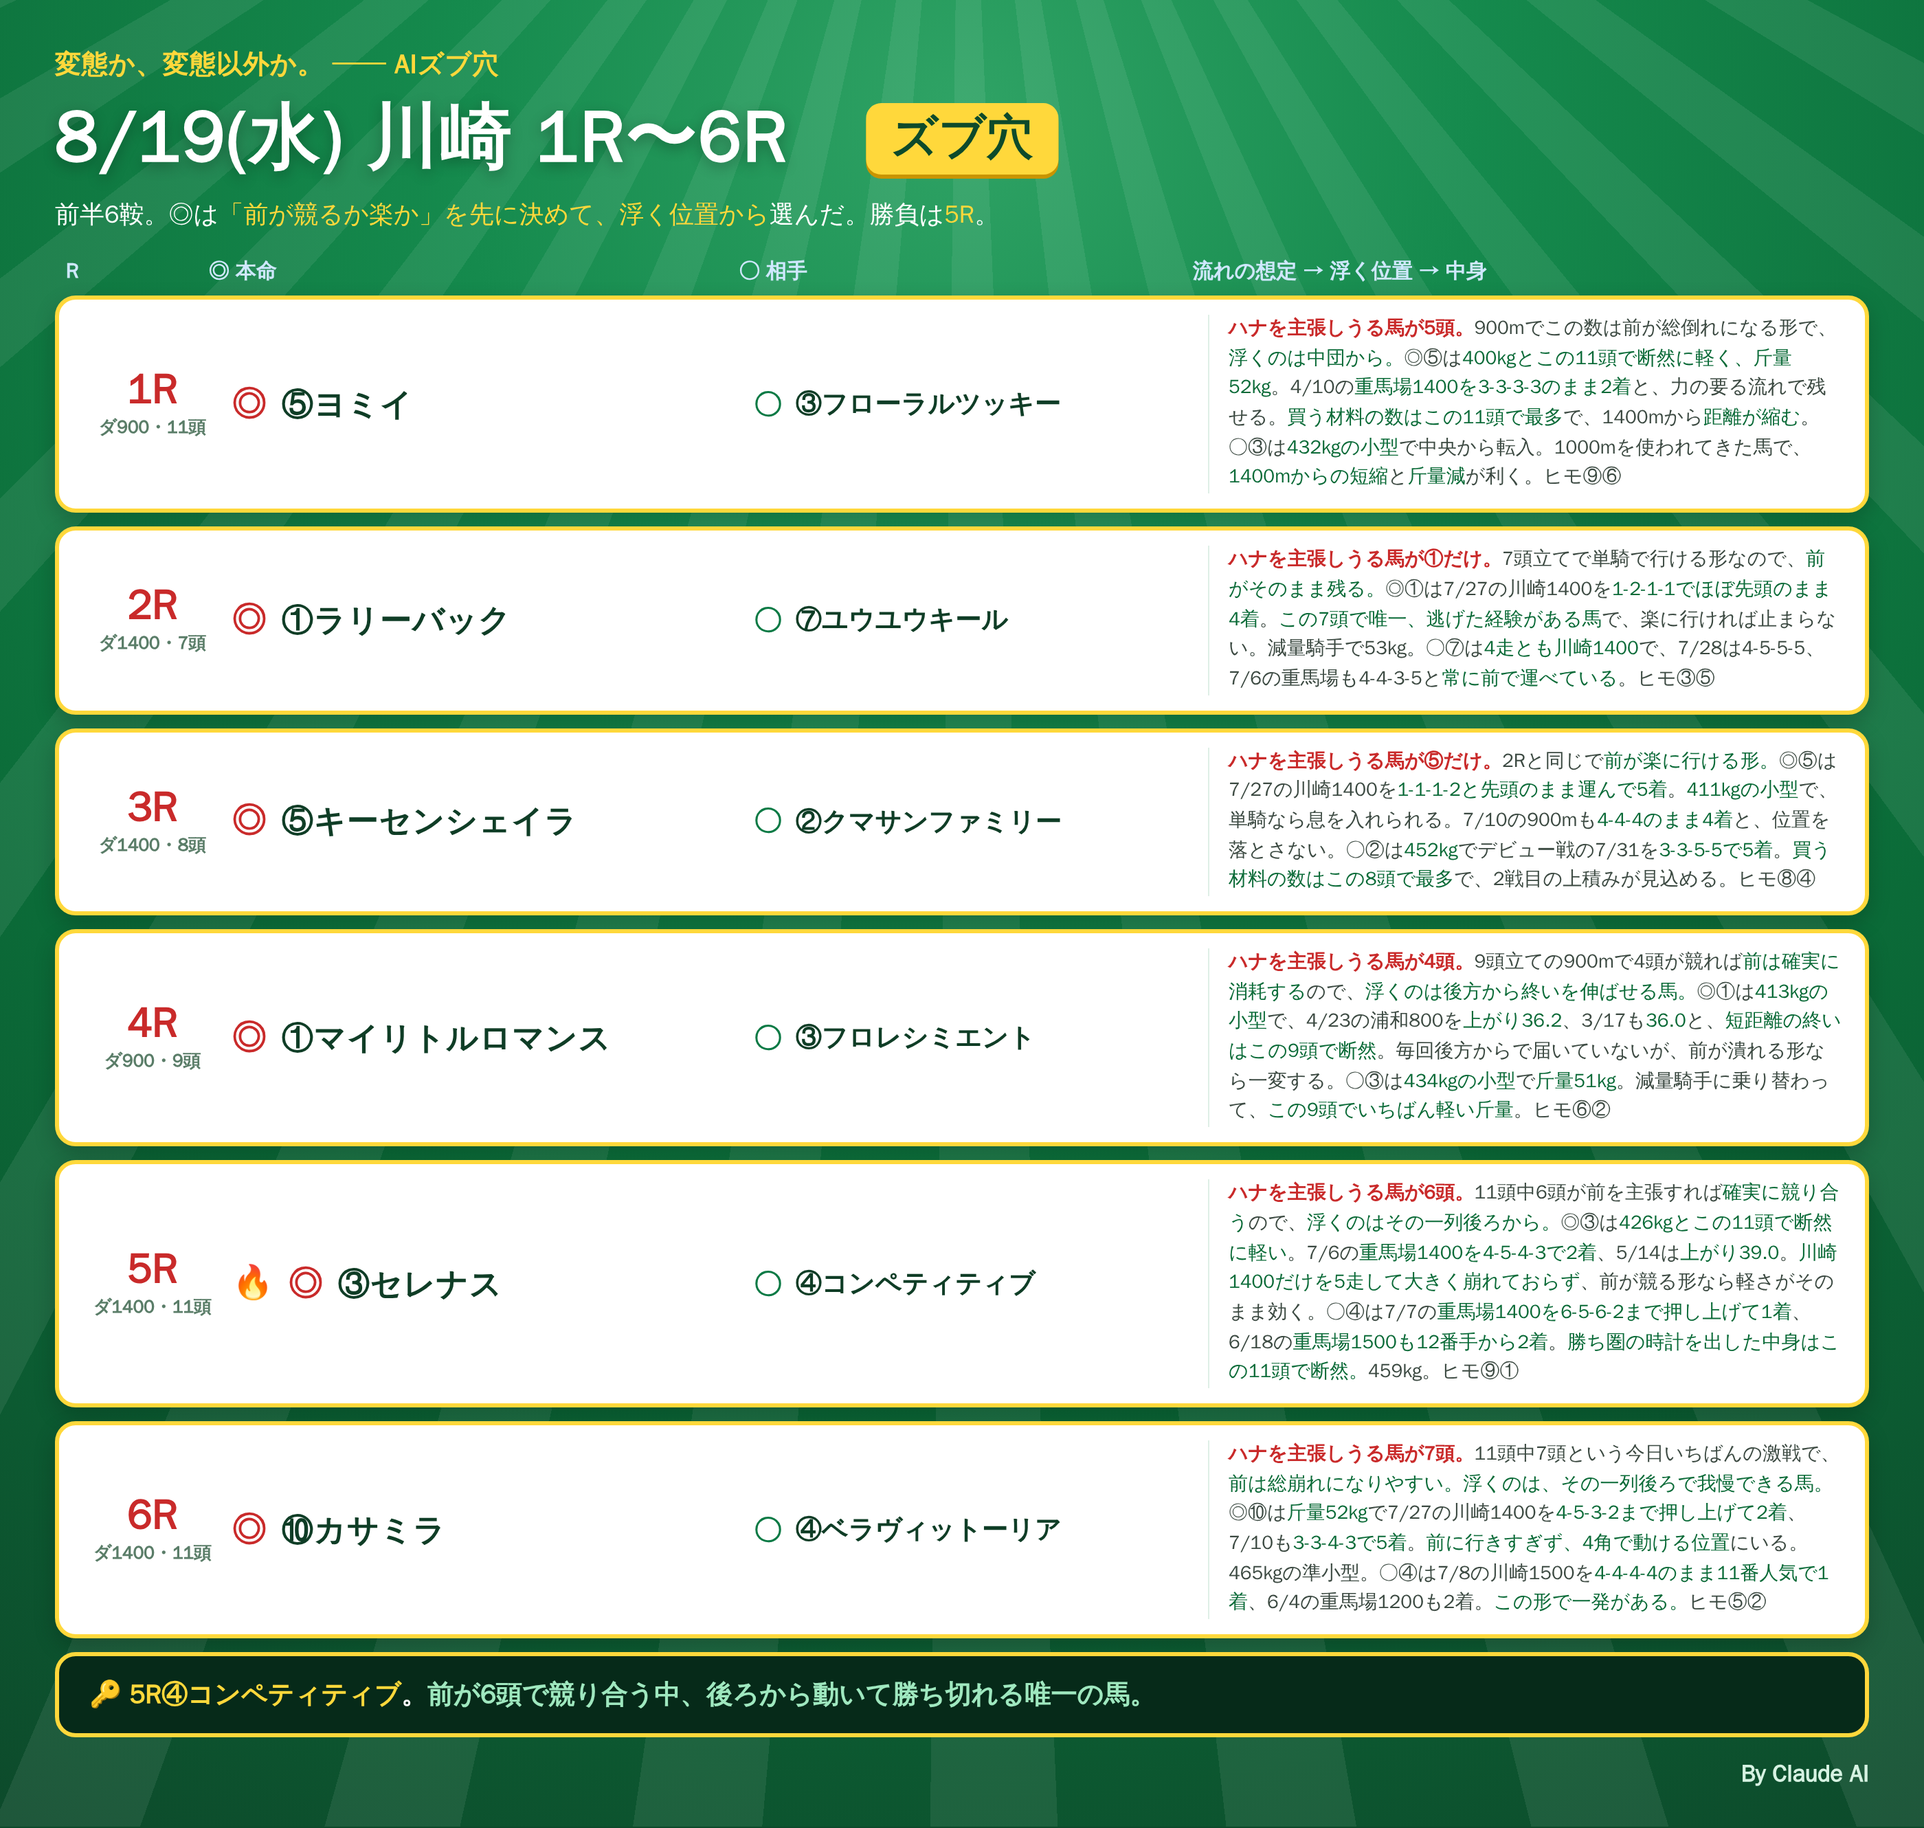
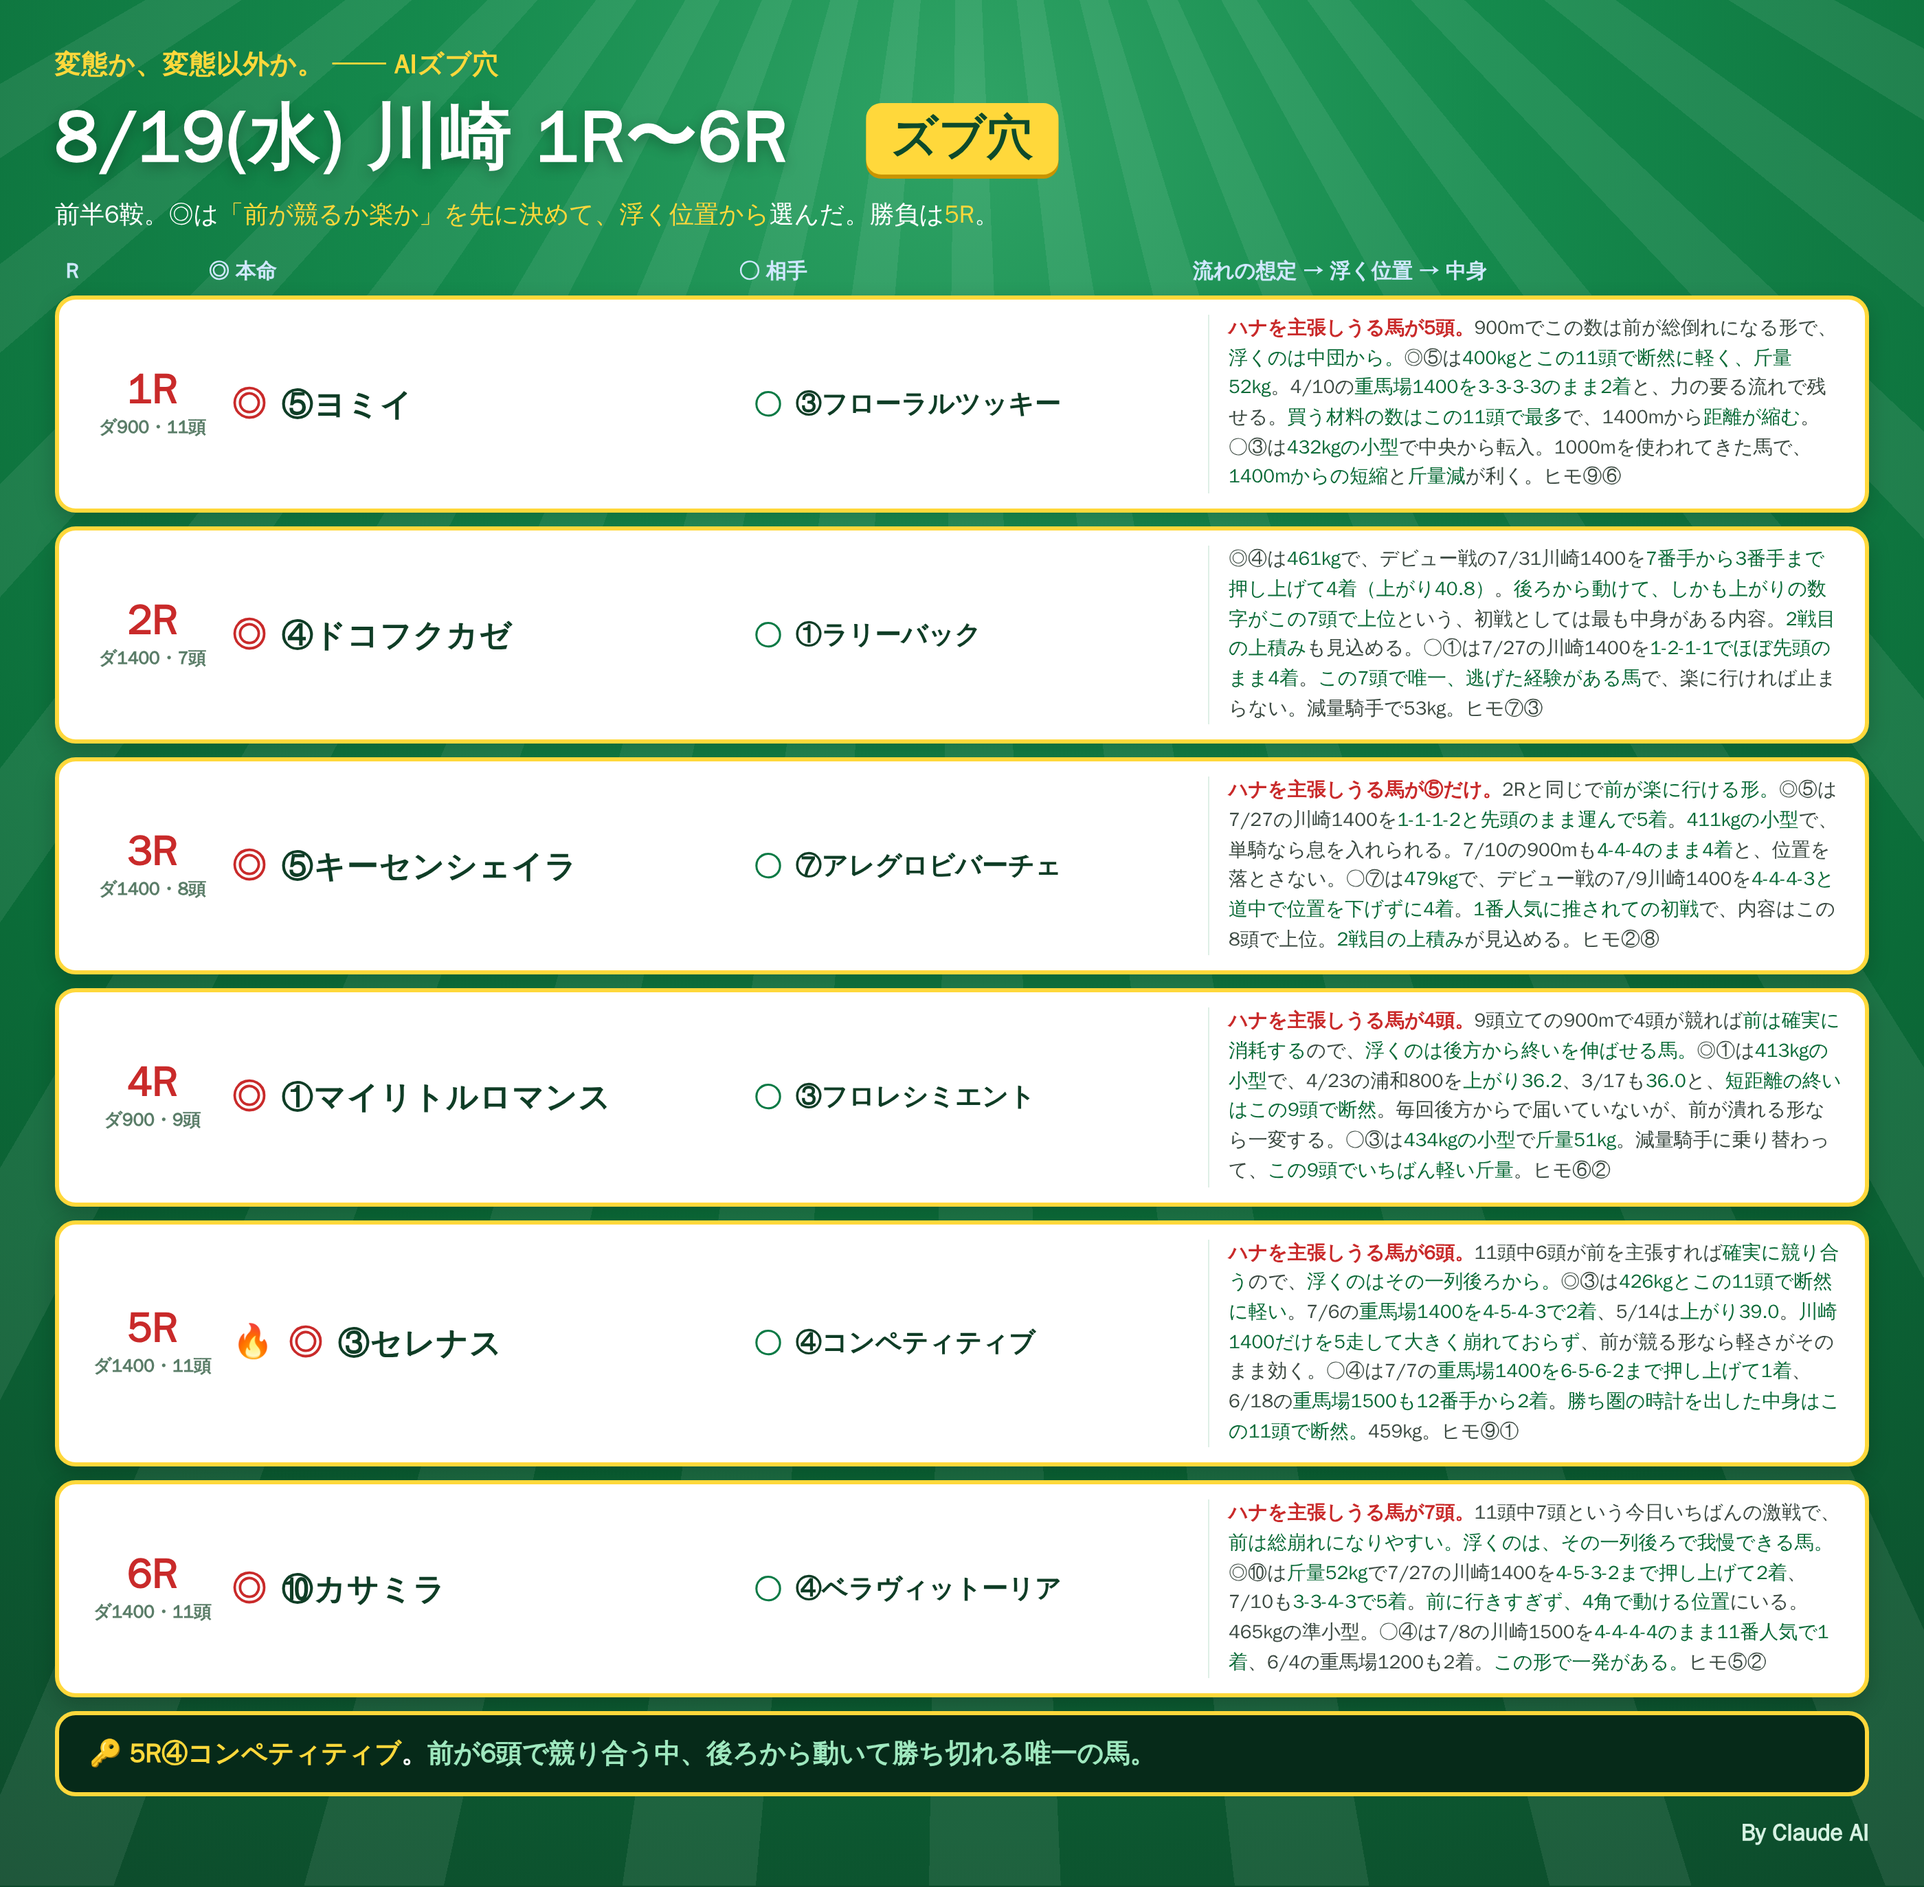
notes: 8/19 川崎 2R ◎④○① / 3R ○⑦ に変更（両方式）
Claude-Session: https://claude.ai/code/session_01RoHscZkr96FNaxQWvUqgEw

diff --git a/notes/live/2026-08-19/kawasaki_1_6.html b/notes/live/2026-08-19/kawasaki_1_6.html
@@ -60,16 +60,16 @@
 
   <div class="row">
     <div class="rN"><div class="n">2R</div><div class="d">ダ1400・7頭</div></div>
-    <div class="hm"><span class="mk">◎</span><span class="nm">①ラリーバック</span></div>
-    <div class="at"><span class="mk2">○</span><span class="nm2">⑦ユウユウキール</span></div>
-    <div class="memo"><b class='r'>ハナを主張しうる馬が①だけ。</b>7頭立てで単騎で行ける形なので、<b>前がそのまま残る。</b>◎①は7/27の川崎1400を<b>1-2-1-1でほぼ先頭のまま4着</b>。<b>この7頭で唯一、逃げた経験がある馬</b>で、楽に行ければ止まらない。減量騎手で53kg。○⑦は<b>4走とも川崎1400</b>で、7/28は4-5-5-5、7/6の重馬場も4-4-3-5と<b>常に前で運べている</b>。ヒモ③⑤</div>
+    <div class="hm"><span class="mk">◎</span><span class="nm">④ドコフクカゼ</span></div>
+    <div class="at"><span class="mk2">○</span><span class="nm2">①ラリーバック</span></div>
+    <div class="memo">◎④は<b>461kg</b>で、デビュー戦の7/31川崎1400を<b>7番手から3番手まで押し上げて4着（上がり40.8）</b>。<b>後ろから動けて、しかも上がりの数字がこの7頭で上位</b>という、初戦としては最も中身がある内容。<b>2戦目の上積み</b>も見込める。○①は7/27の川崎1400を<b>1-2-1-1でほぼ先頭のまま4着</b>。<b>この7頭で唯一、逃げた経験がある馬</b>で、楽に行ければ止まらない。減量騎手で53kg。ヒモ⑦③</div>
   </div>
 
   <div class="row">
     <div class="rN"><div class="n">3R</div><div class="d">ダ1400・8頭</div></div>
     <div class="hm"><span class="mk">◎</span><span class="nm">⑤キーセンシェイラ</span></div>
-    <div class="at"><span class="mk2">○</span><span class="nm2">②クマサンファミリー</span></div>
-    <div class="memo"><b class='r'>ハナを主張しうる馬が⑤だけ。</b>2Rと同じで<b>前が楽に行ける形。</b>◎⑤は7/27の川崎1400を<b>1-1-1-2と先頭のまま運んで5着</b>。<b>411kgの小型</b>で、単騎なら息を入れられる。7/10の900mも<b>4-4-4のまま4着</b>と、位置を落とさない。○②は<b>452kg</b>でデビュー戦の7/31を<b>3-3-5-5で5着</b>。<b>買う材料の数はこの8頭で最多</b>で、2戦目の上積みが見込める。ヒモ⑧④</div>
+    <div class="at"><span class="mk2">○</span><span class="nm2">⑦アレグロビバーチェ</span></div>
+    <div class="memo"><b class='r'>ハナを主張しうる馬が⑤だけ。</b>2Rと同じで<b>前が楽に行ける形。</b>◎⑤は7/27の川崎1400を<b>1-1-1-2と先頭のまま運んで5着</b>。<b>411kgの小型</b>で、単騎なら息を入れられる。7/10の900mも<b>4-4-4のまま4着</b>と、位置を落とさない。○⑦は<b>479kg</b>で、デビュー戦の7/9川崎1400を<b>4-4-4-3と道中で位置を下げずに4着</b>。<b>1番人気に推されての初戦</b>で、内容はこの8頭で上位。<b>2戦目の上積み</b>が見込める。ヒモ②⑧</div>
   </div>
 
   <div class="row">

diff --git a/notes/live/2026-08-19/kawasaki_1_6_classic.html b/notes/live/2026-08-19/kawasaki_1_6_classic.html
@@ -61,16 +61,16 @@
 
   <div class="row">
     <div class="rN"><div class="n">2R</div><div class="d">ダ1400・7頭</div></div>
-    <div class="hm"><span class="mk">◎</span><span class="nm">②アットリーチェ</span></div>
-    <div class="at"><span class="mk2">○</span><span class="nm2">③タイムオブリバー</span></div>
-    <div class="memo">◎②は<b>405kgとこの7頭で断然に軽い</b>。デビュー戦の7/30川崎900を<b>7-6-6で5着</b>と、位置を押し上げながら走れている。<b>900mから1400mへ延びて持続力が生きる。</b>○③は<b>420kgの小型</b>。7/10の川崎900を<b>3-3-3のまま4着</b>と前で運べており、7/27の1400も経験済み。ヒモ④⑦</div>
+    <div class="hm"><span class="mk">◎</span><span class="nm">④ドコフクカゼ</span></div>
+    <div class="at"><span class="mk2">○</span><span class="nm2">①ラリーバック</span></div>
+    <div class="memo">◎④は<b>461kg</b>で、デビュー戦の7/31川崎1400を<b>7番手から3番手まで押し上げて4着（上がり40.8）</b>。<b>後ろから動けて、しかも上がりの数字がこの7頭で上位</b>という、初戦としては最も中身がある内容。<b>2戦目の上積み</b>も見込める。○①は7/27の川崎1400を<b>1-2-1-1でほぼ先頭のまま4着</b>。<b>この7頭で唯一、逃げた経験がある馬</b>で、楽に行ければ止まらない。減量騎手で53kg。ヒモ②③</div>
   </div>
 
   <div class="row">
     <div class="rN"><div class="n">3R</div><div class="d">ダ1400・8頭</div></div>
     <div class="hm"><span class="mk">◎</span><span class="nm">②クマサンファミリー</span></div>
-    <div class="at"><span class="mk2">○</span><span class="nm2">③ダムブランシュ</span></div>
-    <div class="memo">◎②は<b>452kg</b>でデビュー戦の7/31川崎1400を<b>3-3-5-5で5着</b>。<b>買う材料の数はこの8頭で最多</b>で、<b>2戦目の上積み</b>が見込める。渋った馬場に向く血統。○③は<b>377kgとこの8頭で断然に軽い</b>。6/19の<b>重馬場900を4-4-4のまま5着</b>と、軽さが力の要る馬場で生きる。ヒモ④⑧</div>
+    <div class="at"><span class="mk2">○</span><span class="nm2">⑦アレグロビバーチェ</span></div>
+    <div class="memo">◎②は<b>452kg</b>でデビュー戦の7/31川崎1400を<b>3-3-5-5で5着</b>。<b>買う材料の数はこの8頭で最多</b>で、<b>2戦目の上積み</b>が見込める。渋った馬場に向く血統。○⑦は<b>479kg</b>で、デビュー戦の7/9川崎1400を<b>4-4-4-3と道中で位置を下げずに4着</b>。<b>1番人気に推されての初戦</b>で、内容はこの8頭で上位。<b>2戦目の上積み</b>が見込める。ヒモ③⑧</div>
   </div>
 
   <div class="row">

diff --git a/notes/live/2026-08-19/README.md b/notes/live/2026-08-19/README.md
@@ -41,8 +41,8 @@
 | R | ◎本命 | ○相手 | ヒモ | 選定根拠（流れ→位置→中身） |
 |---|---|---|---|---|
 | 1R ダ900 | ⑤ヨミイ | ③フローラルツッキー | ⑨⑥ | 5頭競る→中団／400kg・斤52・E6最多 |
-| 2R ダ1400 | ①ラリーバック | ⑦ユウユウキール | ③⑤ | 1頭のみ→前／唯一の逃げ経験 |
-| 3R ダ1400 | ⑤キーセンシェイラ | ②クマサンファミリー | ⑧④ | 1頭のみ→前／411kg・単騎 |
+| 2R ダ1400 | **④ドコフクカゼ**（本人指定） | **①ラリーバック**（本人指定） | ⑦③ | 本人指定。④はデビュー戦を7番手から3番手まで押し上げ4着(上40.8)／①は唯一の逃げ経験 |
+| 3R ダ1400 | ⑤キーセンシェイラ | **⑦アレグロビバーチェ**（本人指定） | ②⑧ | 1頭のみ→前／411kg・単騎。○⑦はデビュー戦を4-4-4-3で4着(1番人気) |
 | 4R ダ900 | ①マイリトルロマンス | ③フロレシミエント | ⑥② | 4頭消耗→後方／浦和800で上36.0-36.2 |
 | **5R ダ1400** | **③セレナス**（本人指定・◎○入れ替え） | ④コンペティティブ | ⑨① | 6頭競る→一列後ろ／③は426kgで断然に軽く川崎1400を5走して崩れず・④は399=8.0本物2で断然 |
 | 6R ダ1400 | ⑩カサミラ | ④ベラヴィットーリア | ⑤② | 7頭激戦→一列後ろ／斤52・4-5-3-2で2着 |
@@ -113,3 +113,21 @@
 両方式とも **◎③セレナス ○④コンペティティブ** に入れ替えた。
 5Rはもともと両方式で◎が一致していた（＝A/B判定の対象外）レースなので、**この変更は検証に影響しない。**
 - 新手順版 ヒモ⑨①／いつも通り版 ヒモ⑤②
+
+## 【変更記録】2R・3R（本人指定 2026-08-18）
+- **2R … 両方式とも ◎④ドコフクカゼ ○①ラリーバック に統一。**
+  → **2Rは◎が一致したので、A/B判定の対象から外れる。判定は6レース（3R・4R・6R・8R・9R・11R）になった。**
+  ヒモ：新手順版⑦③／いつも通り版②③
+- **3R … 両方式とも ○⑦アレグロビバーチェ。**◎は割れたまま（新手順⑤／いつも通り②）なので**判定対象は維持**。
+  ヒモ：新手順版②⑧／いつも通り版③⑧
+
+## A/B判定対象（最終）
+**3R・4R・6R・8R・9R・11R の6レース**
+| R | ハナ主張 | いつも通り◎ | 新手順◎ |
+|---|---|---|---|
+| 3R | 1頭(楽) | ②クマサンファミリー(先行) | **⑤キーセンシェイラ**(ハナ) |
+| 4R | 4頭(消耗) | ③フロレシミエント(中団) | **①マイリトルロマンス**(後方) |
+| 6R | 7頭(激戦) | ②ヤマニントレモロ(ハナ) | **⑩カサミラ**(先行) |
+| 8R | 3頭(楽) | ③ハイビッグゴールド(中団) | **②オリコウドゥビル**(先行) |
+| 9R | 6頭(競る) | ①ヒロキ(ハナ・E8最多) | **⑩タツノスペシャル**(中団) |
+| 11R | 5頭(競る) | ⑪アランバローズ(ハナ) | **①ヴィクトゥーラ**(中団) |
